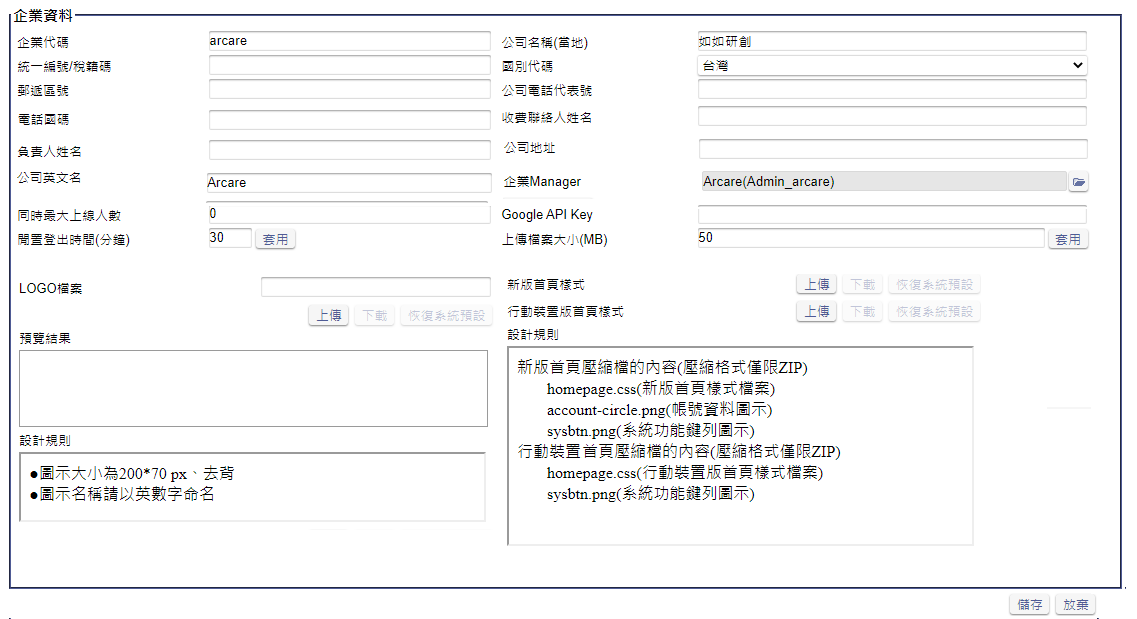
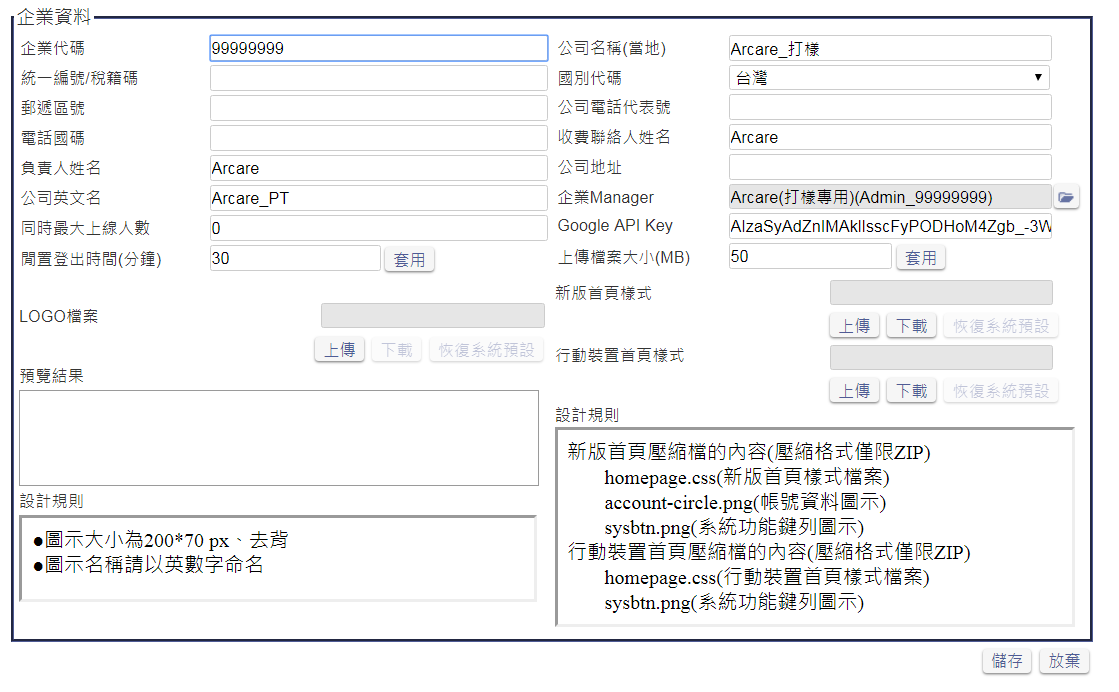
#8927 SA文件

Changed region(s): [[0.0, 0.0, 1.0, 1.0]]

diff --git a/8.10.1/RTE/SITE/enterprisedetail/README.md b/8.10.1/RTE/SITE/enterprisedetail/README.md
@@ -30,6 +30,9 @@
         * 刪除後清空欄位.預覽結果
 
 * 新版首頁樣式
+    * 欄位.新版首頁壓縮檔：
+        * 唯讀
+        * 有上傳新版首頁壓縮檔時，顯示檔案名稱(含副檔名)
     * 按鈕.恢復系統預設
         * 當已有上傳自訂新版首頁時致能，否則除能。
         * 執行後，移除自訂的新版首頁，恢復成預設新版首頁。
@@ -40,13 +43,15 @@
                 * homepage.css : 首頁css樣式檔
                 * account-circle.png : 帳號資料圖示
                 * sysbtn.png : 系統功能鍵列圖示
-                * readme.txt : 修改說明
             * 若為自訂新版首頁，則下載企業管理員上傳的自訂樣式ZIP檔案。
     * 按鈕.上傳
         * 無除致能條件
         * 執行後，跳出上傳檔案的視窗，讓使用者進行上傳自訂樣式的ZIP檔案。
 
 * 行動裝置版首頁樣式
+    * 欄位.行動裝置首頁壓縮檔：
+        * 唯讀
+        * 有上傳行動裝置首頁壓縮檔時，顯示檔案名稱(含副檔名)
     * 按鈕.恢復系統預設
         * 當已有上傳自訂行動裝置版首頁時致能，否則除能。
         * 執行後，移除自訂的行動裝置版首頁，恢復成預設行動裝置版首頁。
@@ -57,7 +62,6 @@
             * 若為預設行動裝置版首頁，則下載的ZIP檔案中包含以下項目:
                 * homepage.css : 首頁css樣式檔
                 * sysbtn.png : 系統功能鍵列圖示
-                * readme.txt : 修改說明
             * 若為自訂行動裝置版首頁，則下載企業管理員上傳的自訂樣式ZIP檔案。
     * 按鈕.上傳
         * 無除致能條件

diff --git a/8.10.1/RTE/SITE/enterprisesiteManager.md b/8.10.1/RTE/SITE/enterprisesiteManager.md
@@ -5,6 +5,7 @@
 * 系統自動備份設定
 * 部門單位管理
 * 企業資料
+* 企業系統設定
 * 系統_管理員設定
 * 系統_使用者設定
 * 系統_帳號申請查詢
